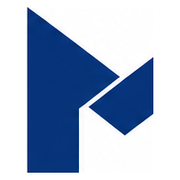
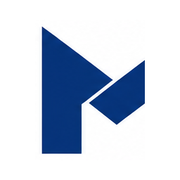
파비콘·OG 이미지 여백 확대로 카카오/탭 잘림 수정

Changed region(s): [[0.1389, 0.0278, 0.8611, 0.9722]]

diff --git a/index.html b/index.html
@@ -10,17 +10,17 @@
     <meta property="og:title" content="미르의 미국 주식">
     <meta property="og:description" content="미국 주식 시장 트리맵, 섹터 흐름, 급등주, 관심 종목 분석 대시보드">
     <meta property="og:url" content="https://seonu-dragon.github.io/Mir_US_Stocks/">
-    <meta property="og:image" content="https://seonu-dragon.github.io/Mir_US_Stocks/assets/og-image.png">
-    <meta property="og:image:width" content="794">
-    <meta property="og:image:height" content="274">
+    <meta property="og:image" content="https://seonu-dragon.github.io/Mir_US_Stocks/assets/og-image.png?v=3">
+    <meta property="og:image:width" content="1200">
+    <meta property="og:image:height" content="1200">
     <meta name="twitter:card" content="summary_large_image">
     <meta name="twitter:title" content="미르의 미국 주식">
     <meta name="twitter:description" content="미국 주식 시장 트리맵, 섹터 흐름, 급등주, 관심 종목 분석 대시보드">
-    <meta name="twitter:image" content="https://seonu-dragon.github.io/Mir_US_Stocks/assets/og-image.png">
+    <meta name="twitter:image" content="https://seonu-dragon.github.io/Mir_US_Stocks/assets/og-image.png?v=3">
     <title>미르의 미국 주식</title>
-    <link rel="icon" href="assets/favicon.ico?v=3" sizes="any">
-    <link rel="icon" type="image/png" sizes="32x32" href="assets/favicon-32.png?v=3">
-    <link rel="apple-touch-icon" sizes="180x180" href="assets/apple-touch-icon.png?v=3">
+    <link rel="icon" href="assets/favicon.ico?v=5" sizes="any">
+    <link rel="icon" type="image/png" sizes="32x32" href="assets/favicon-32.png?v=5">
+    <link rel="apple-touch-icon" sizes="180x180" href="assets/apple-touch-icon.png?v=5">
     <link rel="stylesheet" href="styles.css?v=20260616o">
   </head>
   <body>
